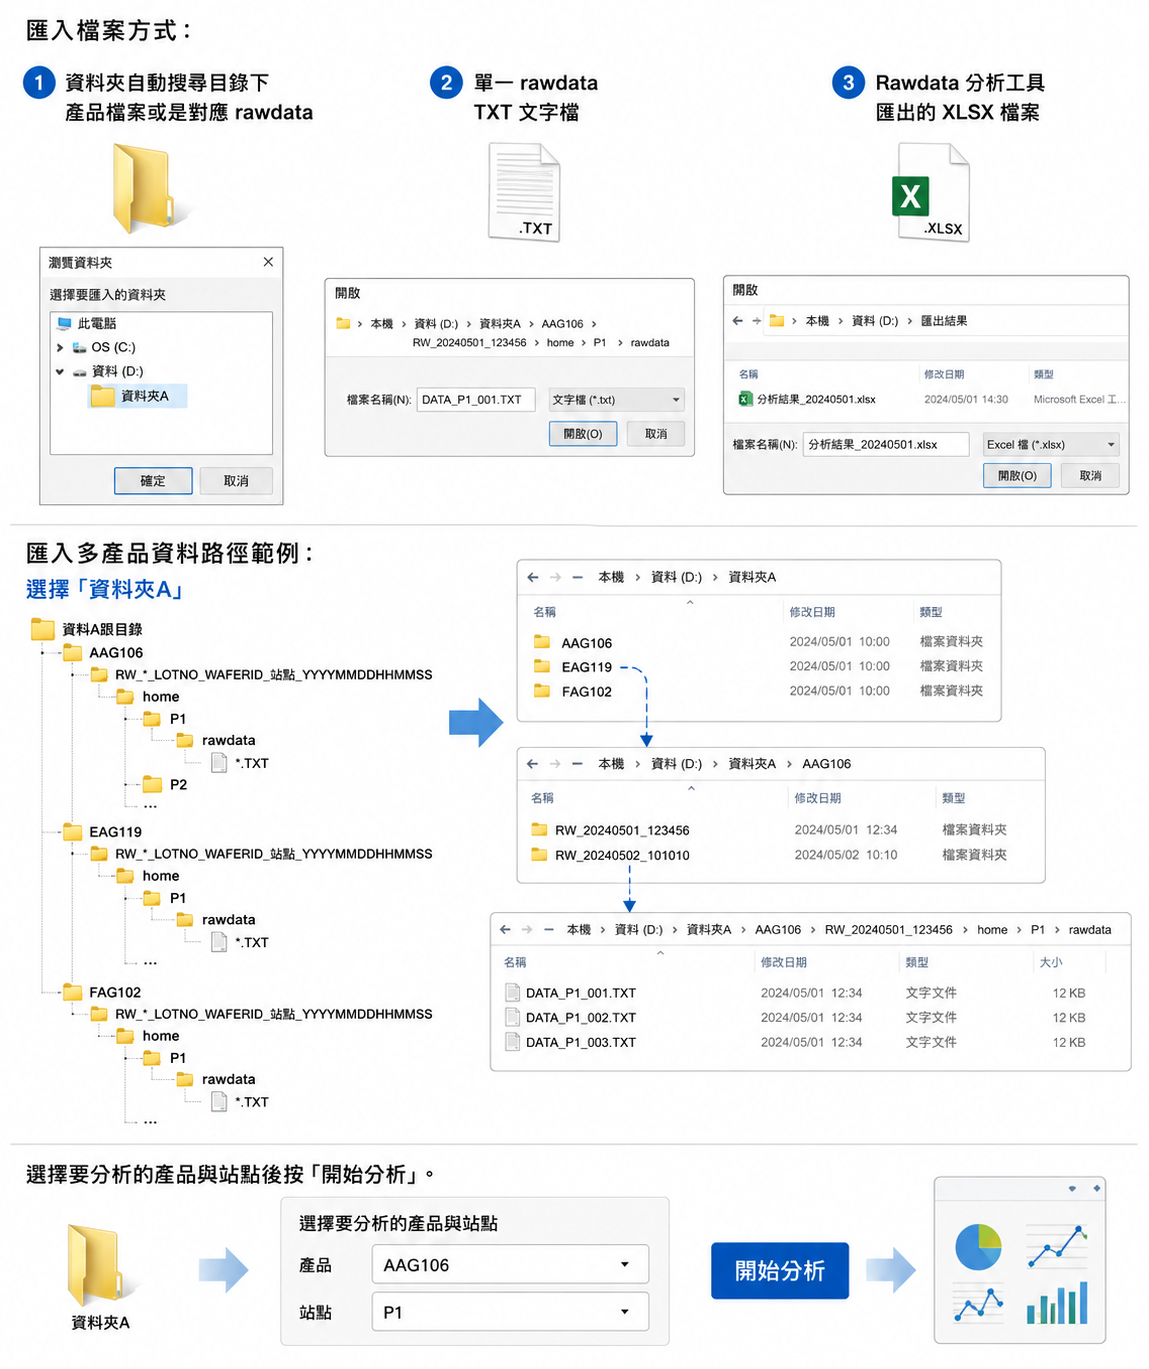
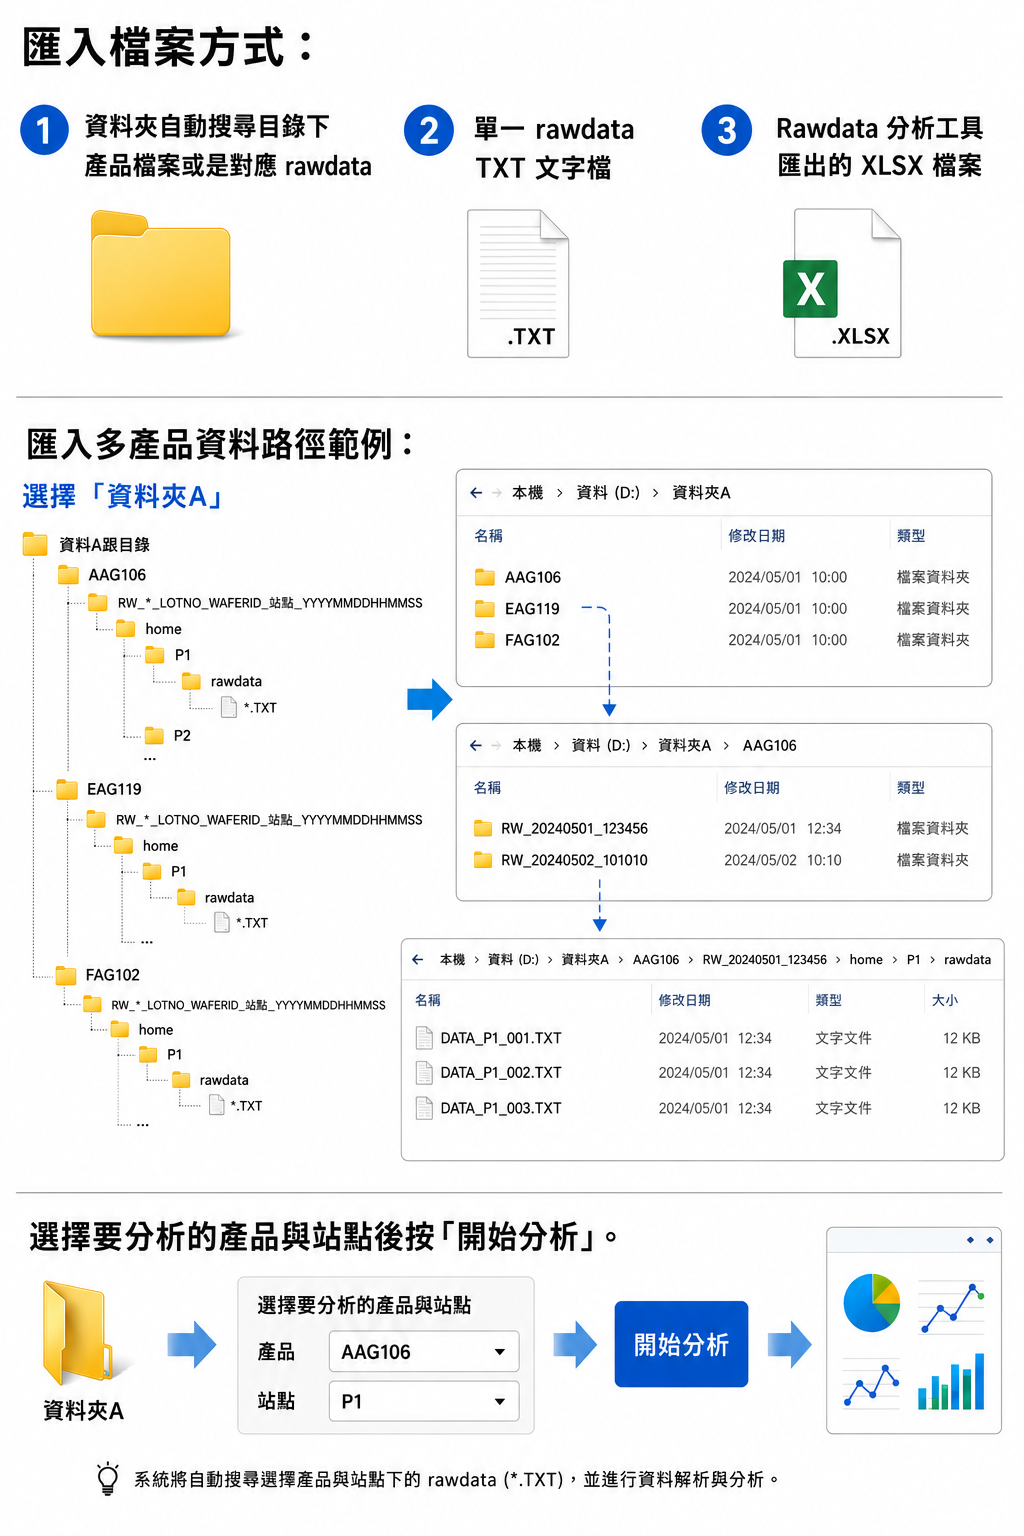
debug: 加入事件綁定診斷 log 與快取破壞版號

diff --git a/css/style.css b/css/style.css
@@ -495,8 +495,7 @@ body.theme-light .source-mode-option {
 }
 
 .scope-select-list {
-  display: grid;
-  gap: 0.56rem;
+  display: block;
 }
 
 .scope-select-toolbar {
@@ -515,6 +514,44 @@ body.theme-light .source-mode-option {
   border-radius: 0.75rem;
   background: #0b1220;
   padding: 0.56rem 0.6rem;
+}
+
+.scope-multi-row {
+  display: grid;
+  grid-template-columns: repeat(2, minmax(0, 1fr));
+  gap: 0.56rem;
+}
+
+.scope-multi-filter {
+  position: relative;
+}
+
+.scope-multi-trigger {
+  width: 100%;
+  text-align: left;
+  border: 1px solid #334155;
+  background: #111827;
+  color: #e2e8f0;
+  border-radius: 0.6rem;
+  padding: 0.42rem 0.62rem;
+  font-size: 0.85rem;
+  font-weight: 600;
+}
+
+.scope-multi-menu {
+  position: absolute;
+  left: 0;
+  right: 0;
+  top: calc(100% + 0.28rem);
+  border: 1px solid #334155;
+  background: #0b1220;
+  border-radius: 0.62rem;
+  padding: 0.56rem 0.62rem;
+  display: grid;
+  gap: 0.36rem;
+  max-height: 260px;
+  overflow: auto;
+  z-index: 35;
 }
 
 .scope-product-row {
@@ -615,6 +652,17 @@ body.theme-light .import-hero-left,
 body.theme-light .import-hero-right,
 body.theme-light .import-integrated,
 body.theme-light #scope-select-panel {
+  background: #ffffff;
+  border-color: #cbd5e1;
+}
+
+body.theme-light .scope-multi-trigger {
+  background: #f8fafc;
+  color: #0f172a;
+  border-color: #cbd5e1;
+}
+
+body.theme-light .scope-multi-menu {
   background: #ffffff;
   border-color: #cbd5e1;
 }
@@ -1090,6 +1138,68 @@ body.theme-light .meta-value {
 
 .meta-input::placeholder {
   color: #94a3b8;
+}
+
+.meta-scope-filter {
+  position: relative;
+}
+
+.meta-scope-trigger {
+  width: 100%;
+  border: 1px solid #334155;
+  border-radius: 0.45rem;
+  background: #0b1220;
+  color: #cbd5e1;
+  padding: 0.22rem 0.36rem;
+  font-size: 0.68rem;
+  line-height: 1.15;
+  text-align: left;
+}
+
+.meta-scope-menu {
+  position: absolute;
+  left: 0;
+  right: 0;
+  top: calc(100% + 0.25rem);
+  z-index: 40;
+  border: 1px solid #334155;
+  border-radius: 0.55rem;
+  background: #0b1220;
+  box-shadow: 0 10px 24px rgba(2, 6, 23, 0.45);
+  padding: 0.45rem;
+  display: grid;
+  gap: 0.28rem;
+  max-height: 220px;
+  overflow: auto;
+}
+
+.meta-scope-item {
+  display: flex;
+  align-items: center;
+  gap: 0.36rem;
+  color: #e2e8f0;
+  font-size: 0.72rem;
+  line-height: 1.15;
+}
+
+.meta-scope-item input {
+  accent-color: #3b82f6;
+}
+
+body.theme-light .meta-scope-trigger {
+  background: #ffffff;
+  color: #0f172a;
+  border-color: #94a3b8;
+}
+
+body.theme-light .meta-scope-menu {
+  background: #ffffff;
+  border-color: #94a3b8;
+  box-shadow: 0 10px 24px rgba(15, 23, 42, 0.15);
+}
+
+body.theme-light .meta-scope-item {
+  color: #0f172a;
 }
 
 .progress-track {
@@ -1629,6 +1739,10 @@ body.theme-light .heatmap-side-cell {
 }
 
 @media (max-width: 640px) {
+  .scope-multi-row {
+    grid-template-columns: 1fr;
+  }
+
   .meta-row {
     grid-template-columns: repeat(2, minmax(0, 1fr));
   }

diff --git a/js/app.js b/js/app.js
@@ -151,8 +151,8 @@ dom.scopeSelectList?.addEventListener("change", onScopeSelectionChange);
 dom.scopeSelectList?.addEventListener("click", onScopeSelectionClick);
 dom.folderMeta?.addEventListener("change", onScopeSelectionChange);
 dom.folderMeta?.addEventListener("click", onMetaScopeMenuClick);
-dom.scopeSelectAll?.addEventListener("click", () => toggleAllScopes(true));
-dom.scopeSelectNone?.addEventListener("click", () => toggleAllScopes(false));
+dom.scopeSelectAll?.addEventListener("click", () => { console.log("[TTO] 全選 clicked"); toggleAllScopes(true); });
+dom.scopeSelectNone?.addEventListener("click", () => { console.log("[TTO] 全不選 clicked"); toggleAllScopes(false); });
 dom.scopeToggleBtn?.addEventListener("click", onScopeToggleClick);
 dom.importWorkspaceToggleBtn?.addEventListener("click", onImportWorkspaceToggleClick);
 dom.folderMeta?.addEventListener("input", onMetaInputChange);
@@ -165,6 +165,7 @@ for (const radio of dom.sourceModeRadios) {
 document.addEventListener("click", onDocumentClick);
 document.addEventListener("click", onGlobalZoomableImageClick, true);
 document.addEventListener("keydown", onDocumentKeydown);
+console.log("[TTO] Event binding complete. scopeSelectAll=", !!dom.scopeSelectAll, "scopeSelectNone=", !!dom.scopeSelectNone, "folderMeta=", !!dom.folderMeta);
 
 initializeGuidePage();
 initializeGroupingMapping();
@@ -604,6 +605,7 @@ function closeScopeMenus() {
 
 function onMetaScopeMenuClick(event) {
   const btn = event.target instanceof Element ? event.target.closest("[data-meta-scope-menu-toggle]") : null;
+  console.log("[TTO] onMetaScopeMenuClick fired, btn=", btn);
   if (!btn || !dom.folderMeta) return;
   event.stopPropagation();
   const menuKey = btn.getAttribute("data-meta-scope-menu-toggle");

diff --git a/index.html b/index.html
@@ -305,6 +305,6 @@
   <script src="js/siteTdHeatmapReact.js"></script>
   <script src="js/kpiCompareReact.js"></script>
   <script src="js/groupingRules.js"></script>
-  <script src="js/app.js"></script>
+  <script src="js/app.js?v=20260530b"></script>
 </body>
 </html>